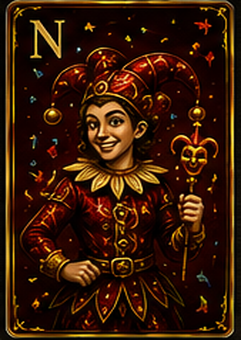
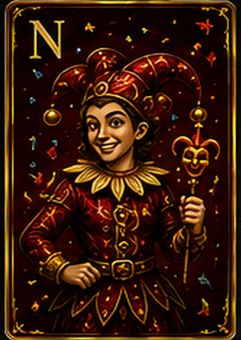
Arkanum-Deck: Zauberer & Narren gleich randlos schneiden wie die Zahlenkarten
Z1-Z4 und N1-N4 hatten noch einen schmalen, ungleichmaessigen dunklen Rand um
den Goldrahmen. Sie werden jetzt mit demselben Verfahren auf die Rahmen-
Bounding-Box zugeschnitten und randlos gefuellt - der Rahmen liegt bei allen
60 Karten einheitlich an den Kanten an. Cache-Version v=12 -> v=13.

Claude-Session: https://claude.ai/code/session_0123Ev7skasBrcjvjHusZkxf

diff --git a/cards.js b/cards.js
@@ -51,8 +51,8 @@ export function allCardImageUrls() {
   if (!CARD_IMAGE_BASE) return [];
   const base = deckBase();
   const urls = [`${CARD_IMAGE_BASE.replace(/\/$/, '')}/back.png?v=2`];
-  for (const c of ['R', 'Y', 'G', 'B']) for (let r = 1; r <= 13; r++) urls.push(`${base}/${c}${r}.png?v=12`);
-  for (let i = 1; i <= 4; i++) { urls.push(`${base}/Z${i}.png?v=12`); urls.push(`${base}/N${i}.png?v=12`); }
+  for (const c of ['R', 'Y', 'G', 'B']) for (let r = 1; r <= 13; r++) urls.push(`${base}/${c}${r}.png?v=13`);
+  for (let i = 1; i <= 4; i++) { urls.push(`${base}/Z${i}.png?v=13`); urls.push(`${base}/N${i}.png?v=13`); }
   return urls;
 }
 
@@ -70,7 +70,7 @@ export function preloadCards() {
   for (let i = 1; i <= 4; i++) { codes.push('Z' + i); codes.push('N' + i); }
   // gestaffelt laden, damit der Start nicht ausgebremst wird
   codes.forEach((code, i) => {
-    setTimeout(() => { const im = new Image(); im.decoding = 'async'; im.src = `${base}/${code}.png?v=12`; }, i * 40);
+    setTimeout(() => { const im = new Image(); im.decoding = 'async'; im.src = `${base}/${code}.png?v=13`; }, i * 40);
   });
 }
 
@@ -106,7 +106,7 @@ export function renderCard(code, opts = {}) {
     img.alt = cardLabel(code);
     img.loading = 'eager';        // sichtbare Karten sofort laden (meist schon im Cache)
     img.decoding = 'async';
-    img.src = `${deckBase()}/${code}.png?v=12`;
+    img.src = `${deckBase()}/${code}.png?v=13`;
     img.onerror = () => { el.innerHTML = faceSvg(code); };   // Fallback auf SVG
     el.appendChild(img);
   } else {
